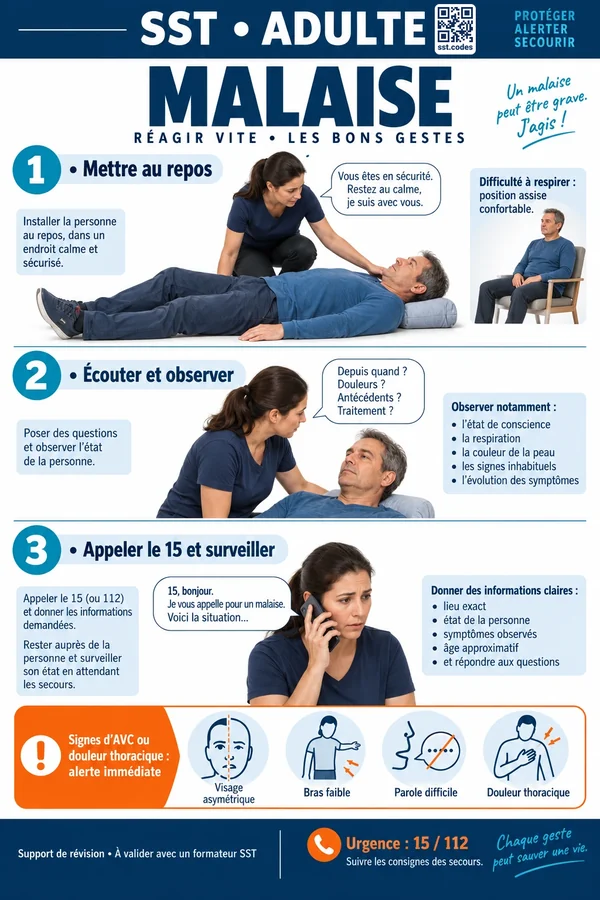
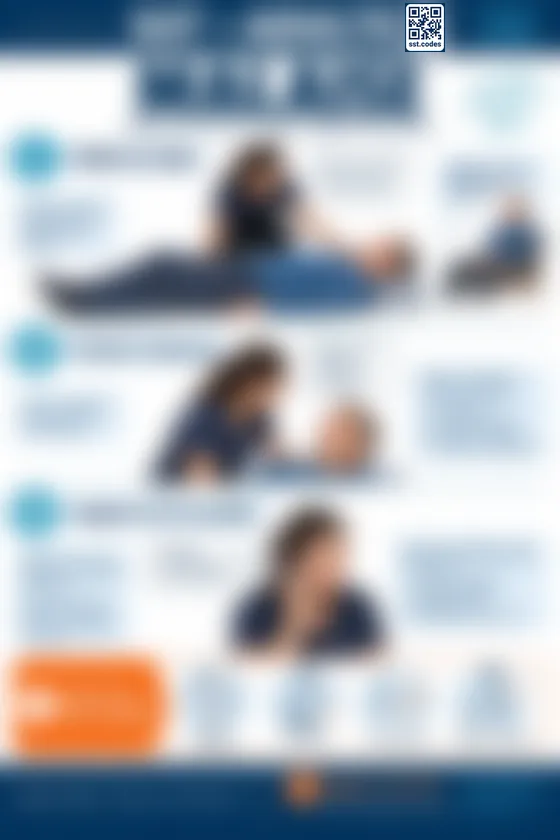
Aperçus des fiches de nouveau floutés, QR code du bandeau laissé net
Claude-Session: https://claude.ai/code/session_01T2ZW31hkkKSAJyZ9xFnLiE

diff --git a/guide-sst.html b/guide-sst.html
@@ -386,13 +386,14 @@ strong{font-weight:600;color:var(--text)}
 .fiche-thumb{position:relative;overflow:hidden;background:var(--bg-alt)}
 .fiche-card.locked:hover{transform:none;box-shadow:var(--shadow)}
 .lock-badge{
-  position:absolute;right:10px;bottom:10px;display:flex;
-  color:#fff;
+  position:absolute;inset:0;display:flex;align-items:center;justify-content:center;
+  background:rgba(15,29,50,.28);color:#fff;
 }
 .lock-badge svg{
-  width:36px;height:36px;padding:9px;border-radius:50%;
-  background:rgba(15,29,50,.85);box-shadow:0 2px 8px rgba(0,0,0,.25);
+  width:46px;height:46px;padding:12px;border-radius:50%;
+  background:rgba(15,29,50,.75);
 }
+
 
 /* Tab panels */
 .tab-panel{display:none}
@@ -1008,35 +1009,35 @@ button.tab{
   </div>
   <div class="fiches-grid">
     <div class="fiche-card locked">
-      <div class="fiche-thumb"><img src="images/apercu-1.webp" alt="Aperçu de la fiche Saignement abondant" loading="lazy"><span class="lock-badge"><svg viewBox="0 0 24 24" fill="none" stroke="currentColor" stroke-width="2.5" stroke-linecap="round" stroke-linejoin="round"><rect x="4" y="11" width="16" height="10" rx="2"/><path d="M8 11V7a4 4 0 018 0v4"/></svg></span></div>
+      <div class="fiche-thumb"><img src="images/apercu-1.webp" alt="Aperçu flouté de la fiche Saignement abondant" loading="lazy"><span class="lock-badge"><svg viewBox="0 0 24 24" fill="none" stroke="currentColor" stroke-width="2.5" stroke-linecap="round" stroke-linejoin="round"><rect x="4" y="11" width="16" height="10" rx="2"/><path d="M8 11V7a4 4 0 018 0v4"/></svg></span></div>
       <div class="fiche-info"><h3>Saignement abondant</h3><p>Comprimer, allonger, alerter</p></div>
     </div>
     <div class="fiche-card locked">
-      <div class="fiche-thumb"><img src="images/apercu-2.webp" alt="Aperçu de la fiche Étouffement adulte" loading="lazy"><span class="lock-badge"><svg viewBox="0 0 24 24" fill="none" stroke="currentColor" stroke-width="2.5" stroke-linecap="round" stroke-linejoin="round"><rect x="4" y="11" width="16" height="10" rx="2"/><path d="M8 11V7a4 4 0 018 0v4"/></svg></span></div>
+      <div class="fiche-thumb"><img src="images/apercu-2.webp" alt="Aperçu flouté de la fiche Étouffement adulte" loading="lazy"><span class="lock-badge"><svg viewBox="0 0 24 24" fill="none" stroke="currentColor" stroke-width="2.5" stroke-linecap="round" stroke-linejoin="round"><rect x="4" y="11" width="16" height="10" rx="2"/><path d="M8 11V7a4 4 0 018 0v4"/></svg></span></div>
       <div class="fiche-info"><h3>Étouffement adulte</h3><p>Claques dans le dos, compressions abdominales</p></div>
     </div>
     <div class="fiche-card locked">
-      <div class="fiche-thumb"><img src="images/apercu-3.webp" alt="Aperçu de la fiche Position Latérale de Sécurité" loading="lazy"><span class="lock-badge"><svg viewBox="0 0 24 24" fill="none" stroke="currentColor" stroke-width="2.5" stroke-linecap="round" stroke-linejoin="round"><rect x="4" y="11" width="16" height="10" rx="2"/><path d="M8 11V7a4 4 0 018 0v4"/></svg></span></div>
+      <div class="fiche-thumb"><img src="images/apercu-3.webp" alt="Aperçu flouté de la fiche Position Latérale de Sécurité" loading="lazy"><span class="lock-badge"><svg viewBox="0 0 24 24" fill="none" stroke="currentColor" stroke-width="2.5" stroke-linecap="round" stroke-linejoin="round"><rect x="4" y="11" width="16" height="10" rx="2"/><path d="M8 11V7a4 4 0 018 0v4"/></svg></span></div>
       <div class="fiche-info"><h3>Position Latérale de Sécurité</h3><p>Vérifier, préparer, tourner, stabiliser</p></div>
     </div>
     <div class="fiche-card locked">
-      <div class="fiche-thumb"><img src="images/apercu-4.webp" alt="Aperçu de la fiche Réanimation Cardio-Pulmonaire" loading="lazy"><span class="lock-badge"><svg viewBox="0 0 24 24" fill="none" stroke="currentColor" stroke-width="2.5" stroke-linecap="round" stroke-linejoin="round"><rect x="4" y="11" width="16" height="10" rx="2"/><path d="M8 11V7a4 4 0 018 0v4"/></svg></span></div>
+      <div class="fiche-thumb"><img src="images/apercu-4.webp" alt="Aperçu flouté de la fiche Réanimation Cardio-Pulmonaire" loading="lazy"><span class="lock-badge"><svg viewBox="0 0 24 24" fill="none" stroke="currentColor" stroke-width="2.5" stroke-linecap="round" stroke-linejoin="round"><rect x="4" y="11" width="16" height="10" rx="2"/><path d="M8 11V7a4 4 0 018 0v4"/></svg></span></div>
       <div class="fiche-info"><h3>Réanimation Cardio-Pulmonaire</h3><p>30 compressions, 2 insufflations, DAE</p></div>
     </div>
     <div class="fiche-card locked">
-      <div class="fiche-thumb"><img src="images/apercu-5.webp" alt="Aperçu de la fiche Brûlure thermique" loading="lazy"><span class="lock-badge"><svg viewBox="0 0 24 24" fill="none" stroke="currentColor" stroke-width="2.5" stroke-linecap="round" stroke-linejoin="round"><rect x="4" y="11" width="16" height="10" rx="2"/><path d="M8 11V7a4 4 0 018 0v4"/></svg></span></div>
+      <div class="fiche-thumb"><img src="images/apercu-5.webp" alt="Aperçu flouté de la fiche Brûlure thermique" loading="lazy"><span class="lock-badge"><svg viewBox="0 0 24 24" fill="none" stroke="currentColor" stroke-width="2.5" stroke-linecap="round" stroke-linejoin="round"><rect x="4" y="11" width="16" height="10" rx="2"/><path d="M8 11V7a4 4 0 018 0v4"/></svg></span></div>
       <div class="fiche-info"><h3>Brûlure thermique</h3><p>Refroidir, retirer, alerter</p></div>
     </div>
     <div class="fiche-card locked">
-      <div class="fiche-thumb"><img src="images/apercu-6.webp" alt="Aperçu de la fiche Plaies simples et graves" loading="lazy"><span class="lock-badge"><svg viewBox="0 0 24 24" fill="none" stroke="currentColor" stroke-width="2.5" stroke-linecap="round" stroke-linejoin="round"><rect x="4" y="11" width="16" height="10" rx="2"/><path d="M8 11V7a4 4 0 018 0v4"/></svg></span></div>
+      <div class="fiche-thumb"><img src="images/apercu-6.webp" alt="Aperçu flouté de la fiche Plaies simples et graves" loading="lazy"><span class="lock-badge"><svg viewBox="0 0 24 24" fill="none" stroke="currentColor" stroke-width="2.5" stroke-linecap="round" stroke-linejoin="round"><rect x="4" y="11" width="16" height="10" rx="2"/><path d="M8 11V7a4 4 0 018 0v4"/></svg></span></div>
       <div class="fiche-info"><h3>Plaies simples et graves</h3><p>Nettoyer, protéger, positions adaptées</p></div>
     </div>
     <div class="fiche-card locked">
-      <div class="fiche-thumb"><img src="images/apercu-7.webp" alt="Aperçu de la fiche Traumatisme" loading="lazy"><span class="lock-badge"><svg viewBox="0 0 24 24" fill="none" stroke="currentColor" stroke-width="2.5" stroke-linecap="round" stroke-linejoin="round"><rect x="4" y="11" width="16" height="10" rx="2"/><path d="M8 11V7a4 4 0 018 0v4"/></svg></span></div>
+      <div class="fiche-thumb"><img src="images/apercu-7.webp" alt="Aperçu flouté de la fiche Traumatisme" loading="lazy"><span class="lock-badge"><svg viewBox="0 0 24 24" fill="none" stroke="currentColor" stroke-width="2.5" stroke-linecap="round" stroke-linejoin="round"><rect x="4" y="11" width="16" height="10" rx="2"/><path d="M8 11V7a4 4 0 018 0v4"/></svg></span></div>
       <div class="fiche-info"><h3>Traumatisme</h3><p>Ne pas bouger, alerter, surveiller</p></div>
     </div>
     <div class="fiche-card locked">
-      <div class="fiche-thumb"><img src="images/apercu-8.webp" alt="Aperçu de la fiche Malaise" loading="lazy"><span class="lock-badge"><svg viewBox="0 0 24 24" fill="none" stroke="currentColor" stroke-width="2.5" stroke-linecap="round" stroke-linejoin="round"><rect x="4" y="11" width="16" height="10" rx="2"/><path d="M8 11V7a4 4 0 018 0v4"/></svg></span></div>
+      <div class="fiche-thumb"><img src="images/apercu-8.webp" alt="Aperçu flouté de la fiche Malaise" loading="lazy"><span class="lock-badge"><svg viewBox="0 0 24 24" fill="none" stroke="currentColor" stroke-width="2.5" stroke-linecap="round" stroke-linejoin="round"><rect x="4" y="11" width="16" height="10" rx="2"/><path d="M8 11V7a4 4 0 018 0v4"/></svg></span></div>
       <div class="fiche-info"><h3>Malaise</h3><p>Repos, écouter, observer, appeler le 15</p></div>
     </div>
   </div>

diff --git a/index.html b/index.html
@@ -386,13 +386,14 @@ strong{font-weight:600;color:var(--text)}
 .fiche-thumb{position:relative;overflow:hidden;background:var(--bg-alt)}
 .fiche-card.locked:hover{transform:none;box-shadow:var(--shadow)}
 .lock-badge{
-  position:absolute;right:10px;bottom:10px;display:flex;
-  color:#fff;
+  position:absolute;inset:0;display:flex;align-items:center;justify-content:center;
+  background:rgba(15,29,50,.28);color:#fff;
 }
 .lock-badge svg{
-  width:36px;height:36px;padding:9px;border-radius:50%;
-  background:rgba(15,29,50,.85);box-shadow:0 2px 8px rgba(0,0,0,.25);
+  width:46px;height:46px;padding:12px;border-radius:50%;
+  background:rgba(15,29,50,.75);
 }
+
 
 /* Tab panels */
 .tab-panel{display:none}
@@ -1008,35 +1009,35 @@ button.tab{
   </div>
   <div class="fiches-grid">
     <div class="fiche-card locked">
-      <div class="fiche-thumb"><img src="images/apercu-1.webp" alt="Aperçu de la fiche Saignement abondant" loading="lazy"><span class="lock-badge"><svg viewBox="0 0 24 24" fill="none" stroke="currentColor" stroke-width="2.5" stroke-linecap="round" stroke-linejoin="round"><rect x="4" y="11" width="16" height="10" rx="2"/><path d="M8 11V7a4 4 0 018 0v4"/></svg></span></div>
+      <div class="fiche-thumb"><img src="images/apercu-1.webp" alt="Aperçu flouté de la fiche Saignement abondant" loading="lazy"><span class="lock-badge"><svg viewBox="0 0 24 24" fill="none" stroke="currentColor" stroke-width="2.5" stroke-linecap="round" stroke-linejoin="round"><rect x="4" y="11" width="16" height="10" rx="2"/><path d="M8 11V7a4 4 0 018 0v4"/></svg></span></div>
       <div class="fiche-info"><h3>Saignement abondant</h3><p>Comprimer, allonger, alerter</p></div>
     </div>
     <div class="fiche-card locked">
-      <div class="fiche-thumb"><img src="images/apercu-2.webp" alt="Aperçu de la fiche Étouffement adulte" loading="lazy"><span class="lock-badge"><svg viewBox="0 0 24 24" fill="none" stroke="currentColor" stroke-width="2.5" stroke-linecap="round" stroke-linejoin="round"><rect x="4" y="11" width="16" height="10" rx="2"/><path d="M8 11V7a4 4 0 018 0v4"/></svg></span></div>
+      <div class="fiche-thumb"><img src="images/apercu-2.webp" alt="Aperçu flouté de la fiche Étouffement adulte" loading="lazy"><span class="lock-badge"><svg viewBox="0 0 24 24" fill="none" stroke="currentColor" stroke-width="2.5" stroke-linecap="round" stroke-linejoin="round"><rect x="4" y="11" width="16" height="10" rx="2"/><path d="M8 11V7a4 4 0 018 0v4"/></svg></span></div>
       <div class="fiche-info"><h3>Étouffement adulte</h3><p>Claques dans le dos, compressions abdominales</p></div>
     </div>
     <div class="fiche-card locked">
-      <div class="fiche-thumb"><img src="images/apercu-3.webp" alt="Aperçu de la fiche Position Latérale de Sécurité" loading="lazy"><span class="lock-badge"><svg viewBox="0 0 24 24" fill="none" stroke="currentColor" stroke-width="2.5" stroke-linecap="round" stroke-linejoin="round"><rect x="4" y="11" width="16" height="10" rx="2"/><path d="M8 11V7a4 4 0 018 0v4"/></svg></span></div>
+      <div class="fiche-thumb"><img src="images/apercu-3.webp" alt="Aperçu flouté de la fiche Position Latérale de Sécurité" loading="lazy"><span class="lock-badge"><svg viewBox="0 0 24 24" fill="none" stroke="currentColor" stroke-width="2.5" stroke-linecap="round" stroke-linejoin="round"><rect x="4" y="11" width="16" height="10" rx="2"/><path d="M8 11V7a4 4 0 018 0v4"/></svg></span></div>
       <div class="fiche-info"><h3>Position Latérale de Sécurité</h3><p>Vérifier, préparer, tourner, stabiliser</p></div>
     </div>
     <div class="fiche-card locked">
-      <div class="fiche-thumb"><img src="images/apercu-4.webp" alt="Aperçu de la fiche Réanimation Cardio-Pulmonaire" loading="lazy"><span class="lock-badge"><svg viewBox="0 0 24 24" fill="none" stroke="currentColor" stroke-width="2.5" stroke-linecap="round" stroke-linejoin="round"><rect x="4" y="11" width="16" height="10" rx="2"/><path d="M8 11V7a4 4 0 018 0v4"/></svg></span></div>
+      <div class="fiche-thumb"><img src="images/apercu-4.webp" alt="Aperçu flouté de la fiche Réanimation Cardio-Pulmonaire" loading="lazy"><span class="lock-badge"><svg viewBox="0 0 24 24" fill="none" stroke="currentColor" stroke-width="2.5" stroke-linecap="round" stroke-linejoin="round"><rect x="4" y="11" width="16" height="10" rx="2"/><path d="M8 11V7a4 4 0 018 0v4"/></svg></span></div>
       <div class="fiche-info"><h3>Réanimation Cardio-Pulmonaire</h3><p>30 compressions, 2 insufflations, DAE</p></div>
     </div>
     <div class="fiche-card locked">
-      <div class="fiche-thumb"><img src="images/apercu-5.webp" alt="Aperçu de la fiche Brûlure thermique" loading="lazy"><span class="lock-badge"><svg viewBox="0 0 24 24" fill="none" stroke="currentColor" stroke-width="2.5" stroke-linecap="round" stroke-linejoin="round"><rect x="4" y="11" width="16" height="10" rx="2"/><path d="M8 11V7a4 4 0 018 0v4"/></svg></span></div>
+      <div class="fiche-thumb"><img src="images/apercu-5.webp" alt="Aperçu flouté de la fiche Brûlure thermique" loading="lazy"><span class="lock-badge"><svg viewBox="0 0 24 24" fill="none" stroke="currentColor" stroke-width="2.5" stroke-linecap="round" stroke-linejoin="round"><rect x="4" y="11" width="16" height="10" rx="2"/><path d="M8 11V7a4 4 0 018 0v4"/></svg></span></div>
       <div class="fiche-info"><h3>Brûlure thermique</h3><p>Refroidir, retirer, alerter</p></div>
     </div>
     <div class="fiche-card locked">
-      <div class="fiche-thumb"><img src="images/apercu-6.webp" alt="Aperçu de la fiche Plaies simples et graves" loading="lazy"><span class="lock-badge"><svg viewBox="0 0 24 24" fill="none" stroke="currentColor" stroke-width="2.5" stroke-linecap="round" stroke-linejoin="round"><rect x="4" y="11" width="16" height="10" rx="2"/><path d="M8 11V7a4 4 0 018 0v4"/></svg></span></div>
+      <div class="fiche-thumb"><img src="images/apercu-6.webp" alt="Aperçu flouté de la fiche Plaies simples et graves" loading="lazy"><span class="lock-badge"><svg viewBox="0 0 24 24" fill="none" stroke="currentColor" stroke-width="2.5" stroke-linecap="round" stroke-linejoin="round"><rect x="4" y="11" width="16" height="10" rx="2"/><path d="M8 11V7a4 4 0 018 0v4"/></svg></span></div>
       <div class="fiche-info"><h3>Plaies simples et graves</h3><p>Nettoyer, protéger, positions adaptées</p></div>
     </div>
     <div class="fiche-card locked">
-      <div class="fiche-thumb"><img src="images/apercu-7.webp" alt="Aperçu de la fiche Traumatisme" loading="lazy"><span class="lock-badge"><svg viewBox="0 0 24 24" fill="none" stroke="currentColor" stroke-width="2.5" stroke-linecap="round" stroke-linejoin="round"><rect x="4" y="11" width="16" height="10" rx="2"/><path d="M8 11V7a4 4 0 018 0v4"/></svg></span></div>
+      <div class="fiche-thumb"><img src="images/apercu-7.webp" alt="Aperçu flouté de la fiche Traumatisme" loading="lazy"><span class="lock-badge"><svg viewBox="0 0 24 24" fill="none" stroke="currentColor" stroke-width="2.5" stroke-linecap="round" stroke-linejoin="round"><rect x="4" y="11" width="16" height="10" rx="2"/><path d="M8 11V7a4 4 0 018 0v4"/></svg></span></div>
       <div class="fiche-info"><h3>Traumatisme</h3><p>Ne pas bouger, alerter, surveiller</p></div>
     </div>
     <div class="fiche-card locked">
-      <div class="fiche-thumb"><img src="images/apercu-8.webp" alt="Aperçu de la fiche Malaise" loading="lazy"><span class="lock-badge"><svg viewBox="0 0 24 24" fill="none" stroke="currentColor" stroke-width="2.5" stroke-linecap="round" stroke-linejoin="round"><rect x="4" y="11" width="16" height="10" rx="2"/><path d="M8 11V7a4 4 0 018 0v4"/></svg></span></div>
+      <div class="fiche-thumb"><img src="images/apercu-8.webp" alt="Aperçu flouté de la fiche Malaise" loading="lazy"><span class="lock-badge"><svg viewBox="0 0 24 24" fill="none" stroke="currentColor" stroke-width="2.5" stroke-linecap="round" stroke-linejoin="round"><rect x="4" y="11" width="16" height="10" rx="2"/><path d="M8 11V7a4 4 0 018 0v4"/></svg></span></div>
       <div class="fiche-info"><h3>Malaise</h3><p>Repos, écouter, observer, appeler le 15</p></div>
     </div>
   </div>
